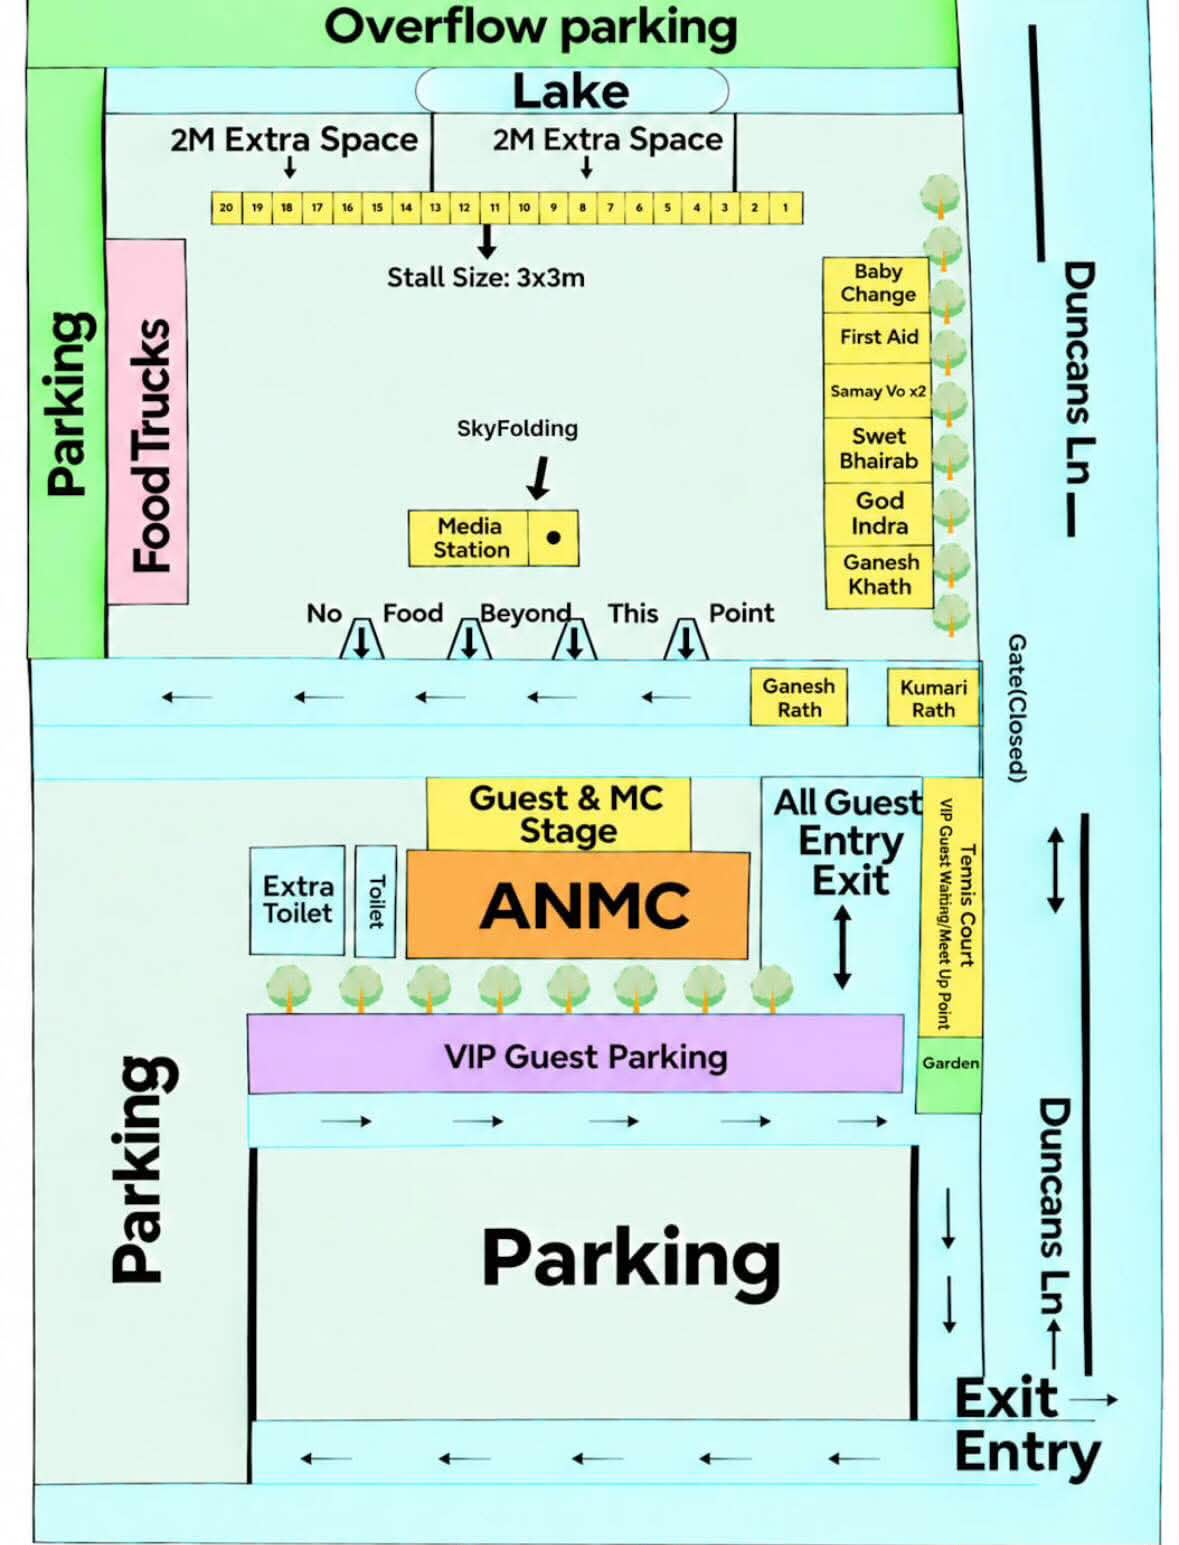
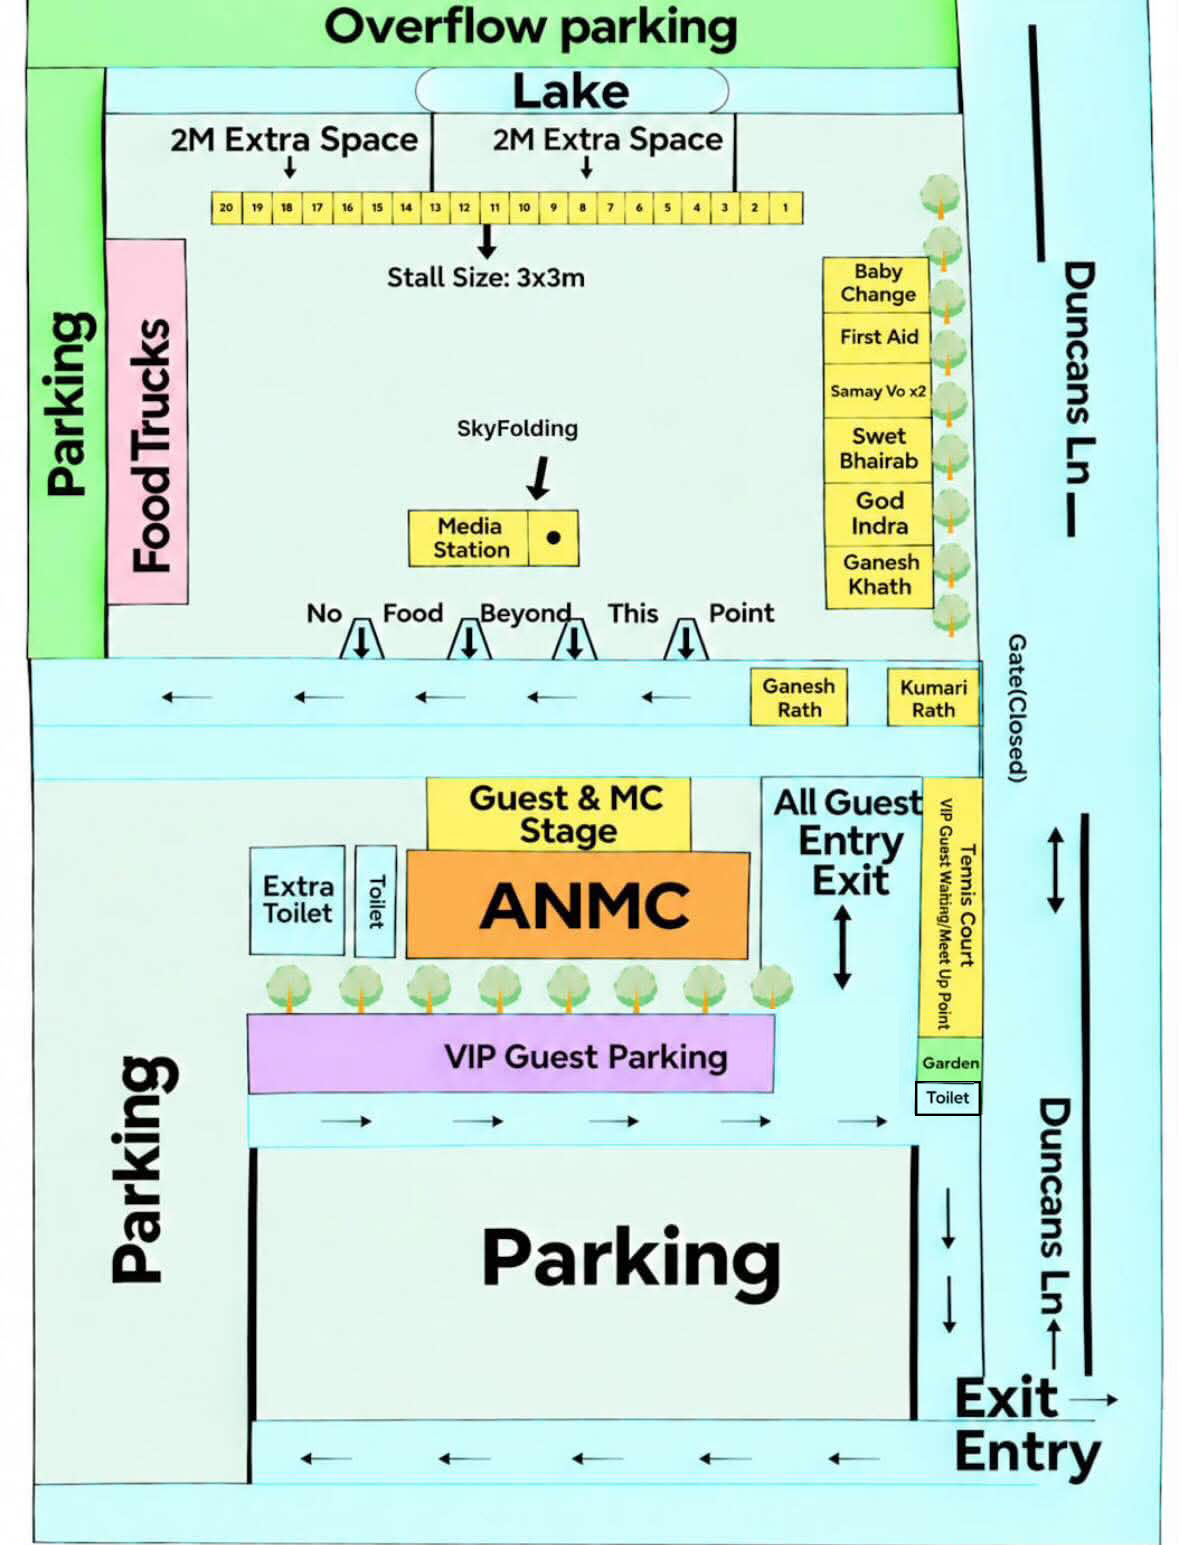
Update site map and interactive stall directory

Changed region(s): [[0.6412, 0.6524, 0.855, 0.7456]]

diff --git a/frontend/src/pages/MapPage.tsx b/frontend/src/pages/MapPage.tsx
@@ -4,7 +4,7 @@ import { Accessibility, ExternalLink, Navigation, X } from "lucide-react";
 import { useApp } from "../app/AppContext";
 import { t } from "../lib/text";
 import { trackEvent } from "../lib/analytics/track";
-import type { LocationType } from "../lib/types";
+import type { Listing, LocationType } from "../lib/types";
 
 const GROUPS: { id: string; label: string; types: LocationType[] }[] = [
   { id: "all", label: "Everything", types: [] },
@@ -17,6 +17,13 @@ const GROUPS: { id: string; label: string; types: LocationType[] }[] = [
 const markerTone = (type: LocationType) =>
   type === "amenity" ? "marker--amenity" : type === "parking" ? "marker--parking" : "";
 
+type StallRow = { number: number; listing?: Listing };
+
+const stallNumber = (listing: Listing) => {
+  const tag = listing.categories.find((category) => /^Stall \d+$/.test(category));
+  return tag ? Number(tag.slice(6)) : null;
+};
+
 export function MapPage() {
   const { data, locale } = useApp();
   const [params, setParams] = useSearchParams();
@@ -24,6 +31,7 @@ export function MapPage() {
 
   const selectedId = params.get("at");
   const selected = data.locations.find((l) => l.id === selectedId);
+  const selectedStallNumber = Number(params.get("stall")) || null;
 
   useEffect(() => trackEvent("map_view"), []);
 
@@ -32,6 +40,27 @@ export function MapPage() {
     if (!config || !config.types.length) return data.locations;
     return data.locations.filter((l) => config.types.includes(l.type));
   }, [group, data.locations]);
+
+  const locationNumbers = useMemo(
+    () => new Map(data.locations.map((location, index) => [location.id, index + 1])),
+    [data.locations]
+  );
+
+  const stalls = useMemo<StallRow[]>(() => {
+    const byNumber = new Map<number, Listing>();
+    data.listings
+      .filter((listing) => listing.published && listing.locationId === "market-row")
+      .forEach((listing) => {
+        const number = stallNumber(listing);
+        if (number) byNumber.set(number, listing);
+      });
+    return Array.from({ length: 20 }, (_, index) => ({ number: index + 1, listing: byNumber.get(index + 1) }));
+  }, [data.listings]);
+
+  const selectedStall = selectedStallNumber
+    ? stalls.find((stall) => stall.number === selectedStallNumber)
+    : undefined;
+  const showStalls = group === "all" || group === "food";
 
   const select = (id: string | null) => {
     if (id) {
@@ -42,20 +71,18 @@ export function MapPage() {
     }
   };
 
+  const selectStall = (number: number | null) => {
+    if (number) {
+      setParams({ stall: String(number) }, { replace: true });
+      trackEvent("map_stall_selected", { number });
+    } else {
+      setParams({}, { replace: true });
+    }
+  };
+
   const route = selected
     ? data.routes.find((r) => r.toLocationId === selected.id && r.fromLocationId === "guest-entry")
     : undefined;
-  const selectedStalls = selected?.id === "market-row"
-    ? data.listings
-        .filter((listing) => listing.published && listing.locationId === "market-row")
-        .map((listing) => {
-          const stallTag = listing.categories.find((category) => /^Stall \d+$/.test(category));
-          return { listing, number: stallTag ? Number(stallTag.slice(6)) : null };
-        })
-        .filter((row): row is { listing: (typeof data.listings)[number]; number: number } => row.number !== null)
-        .sort((a, b) => a.number - b.number)
-    : [];
-
   return (
     <main className="page">
       <p className="eyebrow">Site map</p>
@@ -76,7 +103,7 @@ export function MapPage() {
       <div className="map-wrap">
         <div className="map-canvas">
           <img src="/map/indra-jatra-2026-planned-site-map.jpeg" alt="Planned site layout for the festival at ANMC, Diggers Rest" />
-          {visible.map((location, index) => (
+          {visible.filter((location) => location.id !== "market-row").map((location) => (
             <button
               key={location.id}
               type="button"
@@ -86,8 +113,20 @@ export function MapPage() {
               aria-label={t(location.name, locale)}
               aria-pressed={selectedId === location.id}
             >
-              {index + 1}
+              {locationNumbers.get(location.id)}
             </button>
+          ))}
+          {showStalls && stalls.map((stall) => (
+            <button
+              key={`stall-${stall.number}`}
+              type="button"
+              className={`stall-hotspot${selectedStallNumber === stall.number ? " stall-hotspot--active" : ""}`}
+              style={{ left: `${67.3 - (stall.number - 1) * 2.55}%`, top: "13.45%" }}
+              onClick={() => selectStall(selectedStallNumber === stall.number ? null : stall.number)}
+              aria-label={`Stall ${stall.number}: ${stall.listing?.name ?? "Unassigned"}`}
+              aria-pressed={selectedStallNumber === stall.number}
+              title={`Stall ${stall.number}: ${stall.listing?.name ?? "Unassigned"}`}
+            />
           ))}
         </div>
       </div>
@@ -98,36 +137,68 @@ export function MapPage() {
         <span><i style={{ color: "var(--faint)" }} />Parking &amp; entry</span>
       </div>
 
-      {selected && (
+      <section className="map-market" aria-labelledby="market-stalls-heading">
+        <div className="row row--between">
+          <div>
+            <p className="eyebrow" style={{ marginBottom: 3 }}>Market row</p>
+            <h2 id="market-stalls-heading">Stalls 1–20</h2>
+          </div>
+          <span className="small muted">Tap for details</span>
+        </div>
+        <div className="stall-grid">
+          {stalls.map((stall) => (
+            <button
+              key={stall.number}
+              type="button"
+              className="stall-tile"
+              aria-pressed={selectedStallNumber === stall.number}
+              onClick={() => selectStall(stall.number)}
+            >
+              <strong>{stall.number}</strong>
+              <span>{stall.listing?.name ?? "Unassigned"}</span>
+            </button>
+          ))}
+        </div>
+      </section>
+
+      {(selected || selectedStall) && (
         <div className="map-sheet">
           <div className="row row--between" style={{ flexWrap: "nowrap", alignItems: "flex-start", gap: 12 }}>
             <div style={{ minWidth: 0 }}>
-              <p className="eyebrow" style={{ marginBottom: 4 }}>{selected.type}</p>
-              <h2 style={{ margin: 0, fontSize: "var(--step-2)" }}>{t(selected.name, locale)}</h2>
+              <p className="eyebrow" style={{ marginBottom: 4 }}>
+                {selectedStall ? `Market stall ${selectedStall.number}` : selected?.type}
+              </p>
+              <h2 style={{ margin: 0, fontSize: "var(--step-2)" }}>
+                {selectedStall ? selectedStall.listing?.name ?? "Unassigned stall" : selected ? t(selected.name, locale) : ""}
+              </h2>
             </div>
-            <button type="button" className="btn btn--icon btn--sm" onClick={() => select(null)} aria-label="Close details">
+            <button type="button" className="btn btn--icon btn--sm" onClick={() => selectedStall ? selectStall(null) : select(null)} aria-label="Close details">
               <X size={16} />
             </button>
           </div>
-          {selected.description && <p className="small muted" style={{ marginTop: 10 }}>{t(selected.description, locale)}</p>}
+          {selectedStall?.listing?.logo && (
+            <div className={`stall-logo${selectedStall.listing.id === "accent-windows" ? " stall-logo--dark" : ""}`}>
+              <img src={selectedStall.listing.logo} alt={`${selectedStall.listing.name} logo`} />
+            </div>
+          )}
+          {selectedStall?.listing?.description && (
+            <p className="small muted" style={{ marginTop: 10 }}>{t(selectedStall.listing.description, locale)}</p>
+          )}
+          {selectedStall && !selectedStall.listing && (
+            <p className="small muted" style={{ marginTop: 10 }}>No stallholder is assigned to this space.</p>
+          )}
+          {selected?.description && <p className="small muted" style={{ marginTop: 10 }}>{t(selected.description, locale)}</p>}
           {route && (
             <p className="small" style={{ display: "flex", gap: 8, marginTop: 10 }}>
               <Navigation size={15} style={{ flex: "0 0 auto", color: "var(--brand)", marginTop: 2 }} />
               <span>{t(route.steps[0], locale)}</span>
             </p>
           )}
-          {selected.accessibilityNotes && (
+          {selected?.accessibilityNotes && (
             <p className="small" style={{ display: "flex", gap: 8, marginTop: 8, color: "var(--clay-700)" }}>
               <Accessibility size={15} style={{ flex: "0 0 auto", marginTop: 2 }} />
               <span>{t(selected.accessibilityNotes, locale)}</span>
             </p>
-          )}
-          {selectedStalls.length > 0 && (
-            <div className="map-stall-roster" aria-label="Confirmed market stall assignments">
-              {selectedStalls.map(({ listing, number }) => (
-                <span key={listing.id}><strong>{number}</strong>{listing.name}</span>
-              ))}
-            </div>
           )}
         </div>
       )}
@@ -136,7 +207,7 @@ export function MapPage() {
         <h2>Every location</h2>
         <p className="small muted">Numbers match the map above.</p>
         <ul className="stack" style={{ listStyle: "none", padding: 0, marginTop: "var(--s-3)" }}>
-          {visible.map((location, index) => (
+          {visible.map((location) => (
             <li key={location.id}>
               <button
                 type="button"
@@ -146,7 +217,7 @@ export function MapPage() {
               >
                 <span className={`icon-disc${location.type === "amenity" ? " icon-disc--jade" : location.type === "parking" ? " icon-disc--dark" : ""}`}
                       style={{ fontWeight: 800, width: 36, height: 36, flex: "0 0 36px", fontSize: "var(--step--1)" }}>
-                  {index + 1}
+                  {locationNumbers.get(location.id)}
                 </span>
                 <span style={{ flex: 1, minWidth: 0 }}>
                   <strong style={{ display: "block", fontSize: "var(--step-0)" }}>{t(location.name, locale)}</strong>

diff --git a/frontend/src/content/seed/data.ts b/frontend/src/content/seed/data.ts
@@ -98,7 +98,10 @@ const locationRows: LocRow[] = [
     "Grass surface and a longer walk. If you need a shorter walk, tell a marshal at the vehicle entry."],
   ["meet-point", "Meet-Up Point", "amenity", 80, 56,
     "By the tennis court, next to the guest entry. The agreed place to meet if your group gets separated.",
-    "Clearly signed, sheltered, and visible from the entry."]
+    "Clearly signed, sheltered, and visible from the entry."],
+  ["garden-toilet", "Garden Toilet", "amenity", 80, 72,
+    "Additional toilet beside the garden and VIP guest waiting area.",
+    "Portable toilet on level ground. Use the ANMC toilet for full wheelchair access."]
 ];
 
 export const locations: Location[] = locationRows.map(([id, name, type, mapX, mapY, description, access]) => ({
@@ -520,15 +523,15 @@ export const listings: Listing[] = [
   },
   {
     id: "newari-family-attire", slug: "newari-family-attire", name: "Newari Family Attire",
-    listingType: "market", categories: ["Clothing", "Market stall"],
-    description: { en: "Newari attire available from the festival marquee row." },
+    listingType: "market", categories: ["Stall 6", "Clothing", "Market stall"],
+    description: { en: "Newari attire available from stall 6 in the festival marquee row." },
     locationId: "market-row", logo: "/brand/vendors/newari-family-attire.jpg",
     confirmed: true, published: true
   },
   {
-    id: "nep-mart", slug: "nep-mart", name: "Nep Mart",
-    listingType: "market", categories: ["Groceries", "Tea", "Market stall"],
-    description: { en: "Nepali groceries and tea available from the festival marquee row." },
+    id: "nep-mart", slug: "nep-mart", name: "Nepmart (Indreni Sunshine)",
+    listingType: "market", categories: ["Stall 4", "Groceries", "Tea", "Market stall"],
+    description: { en: "Nepali groceries and tea available from stall 4 in the festival marquee row." },
     locationId: "market-row", logo: "/brand/vendors/nep-mart.jpg",
     confirmed: true, published: true
   },
@@ -536,23 +539,11 @@ export const listings: Listing[] = [
     id: "ngv-desk", slug: "ngv-desk", name: "Newa Guthi Victoria",
     listingType: "community", categories: ["Stall 1", "Community", "Classes"],
     description: { en: "Membership, weekly Dhimey, Bhusya Baja, Bansuri and Newa dance classes, and volunteering for next year's festival. Come and say hello." },
-    locationId: "market-row", confirmed: true, published: true
+    locationId: "market-row", logo: "/brand/ngv-logo.png", confirmed: true, published: true
   },
   {
-    id: "human", slug: "human", name: "HUman",
+    id: "nepthic", slug: "nepthic", name: "Nepthic",
     listingType: "market", categories: ["Stall 3", "Market stall"],
-    description: { en: "A confirmed festival stall in the marquee row." },
-    locationId: "market-row", confirmed: true, published: true
-  },
-  {
-    id: "indreni", slug: "indreni", name: "Indreni",
-    listingType: "market", categories: ["Stall 4", "Market stall"],
-    description: { en: "A confirmed festival stall in the marquee row." },
-    locationId: "market-row", confirmed: true, published: true
-  },
-  {
-    id: "simran", slug: "simran", name: "Simran",
-    listingType: "market", categories: ["Stall 6", "Market stall"],
     description: { en: "A confirmed festival stall in the marquee row." },
     locationId: "market-row", confirmed: true, published: true
   },
@@ -564,10 +555,11 @@ export const listings: Listing[] = [
     confirmed: true, published: true
   },
   {
-    id: "aussie-window", slug: "aussie-window", name: "Aussie Window",
+    id: "accent-windows", slug: "accent-windows", name: "Accent Windows",
     listingType: "market", categories: ["Stall 10", "Market stall"],
-    description: { en: "A confirmed festival stall in the marquee row." },
-    locationId: "market-row", confirmed: true, published: true
+    description: { en: "Accent Aluminium Windows & Doors at stall 10 in the festival marquee row." },
+    locationId: "market-row", logo: "/brand/vendors/accent-windows.webp",
+    confirmed: true, published: true
   },
   {
     id: "aj-sweet-decor", slug: "aj-sweet-decor", name: "AJ Sweet Decor",
@@ -576,10 +568,17 @@ export const listings: Listing[] = [
     locationId: "market-row", confirmed: true, published: true
   },
   {
-    id: "napi", slug: "napi", name: "NAPI",
-    listingType: "market", categories: ["Stall 13", "Community stall"],
-    description: { en: "A confirmed festival stall in the marquee row." },
+    id: "aherb", slug: "aherb", name: "Aherb",
+    listingType: "market", categories: ["Stall 12", "Market stall"],
+    description: { en: "Visit Aherb at stall 12 in the festival marquee row." },
     locationId: "market-row", confirmed: true, published: true
+  },
+  {
+    id: "nab-stall", slug: "nab-stall", name: "NAB",
+    listingType: "market", categories: ["Stall 13", "Sponsor stall"],
+    description: { en: "Visit NAB at stall 13 in the festival marquee row." },
+    locationId: "market-row", logo: "/brand/sponsors/platinum-nab.png",
+    confirmed: true, published: true
   },
   {
     id: "grace-international-stall", slug: "grace-international-stall", name: "Grace International",

diff --git a/frontend/src/styles/app.css b/frontend/src/styles/app.css
@@ -801,6 +801,53 @@ h4 { font-size: var(--step-0); font-family: var(--font-sans); font-weight: 600; 
 }
 .marker--you { background: var(--marigold-400); color: var(--oxblood-900); }
 
+.stall-hotspot {
+  position: absolute; z-index: 2; transform: translate(-50%, -50%);
+  width: 2.5%; height: 2.2%; min-width: 0; min-height: 0; padding: 0;
+  border: 1px solid transparent; border-radius: 2px;
+  background: transparent; cursor: pointer;
+}
+.stall-hotspot:hover,
+.stall-hotspot:focus-visible,
+.stall-hotspot--active {
+  border-color: var(--oxblood-800);
+  background: rgba(244, 174, 26, .5);
+  box-shadow: 0 0 0 2px #fff;
+  outline: 0;
+}
+
+.map-market { margin-top: var(--s-5); }
+.map-market h2 { margin: 0; font-size: var(--step-2); }
+.stall-grid {
+  display: grid; grid-template-columns: repeat(2, minmax(0, 1fr));
+  gap: 8px; margin-top: var(--s-3);
+}
+.stall-tile {
+  display: grid; grid-template-columns: 30px minmax(0, 1fr); align-items: center;
+  gap: 8px; min-height: 52px; padding: 7px 9px; text-align: left;
+  color: var(--fg); background: var(--white); border: 1px solid var(--rule);
+  border-radius: var(--r-sm); cursor: pointer;
+}
+.stall-tile strong {
+  display: grid; place-items: center; width: 30px; height: 30px;
+  font-family: var(--font-mono); font-size: var(--step--2);
+  color: #fff; background: var(--oxblood-700); border-radius: var(--r-xs);
+}
+.stall-tile span { min-width: 0; font-size: var(--step--2); line-height: 1.25; }
+.stall-tile[aria-pressed="true"] {
+  border-color: var(--saffron-500); background: var(--saffron-50);
+  box-shadow: 0 0 0 1px var(--saffron-500);
+}
+.stall-tile[aria-pressed="true"] strong { background: var(--saffron-500); color: var(--oxblood-900); }
+
+.stall-logo {
+  display: grid; place-items: center; width: 100%; min-height: 96px;
+  margin-top: var(--s-3); padding: var(--s-3); overflow: hidden;
+  background: var(--white); border: 1px solid var(--rule); border-radius: var(--r-sm);
+}
+.stall-logo--dark { background: #080808; }
+.stall-logo img { display: block; width: auto; max-width: 100%; height: auto; max-height: 92px; object-fit: contain; }
+
 .map-sheet {
   position: sticky; bottom: calc(var(--nav-h) + var(--safe-b) + var(--s-2));
   z-index: 20; margin-top: var(--s-3);
@@ -820,6 +867,10 @@ h4 { font-size: var(--step-0); font-family: var(--font-sans); font-weight: 600; 
 }
 .map-stall-roster strong { font-family: var(--font-mono); color: var(--brand); }
 @keyframes slideUp { from { opacity: 0; transform: translateY(10px); } to { opacity: 1; transform: none; } }
+
+@media (min-width: 620px) {
+  .stall-grid { grid-template-columns: repeat(4, minmax(0, 1fr)); }
+}
 
 .legend { display: flex; flex-wrap: wrap; gap: var(--s-2) var(--s-4); margin-top: var(--s-3); }
 .legend span {
